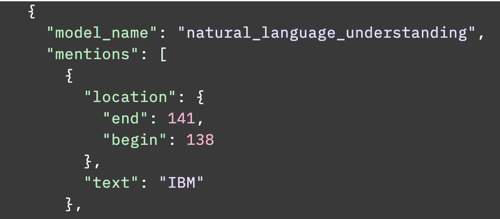
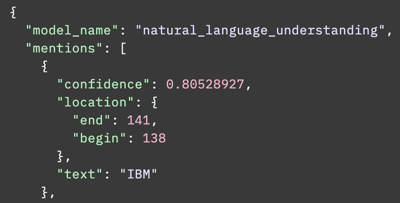
adding rel note

diff --git a/nlu.md b/nlu.md
@@ -2,7 +2,7 @@
 
 copyright:
   years: 2019, 2021
-lastupdated: "2021-09-08"
+lastupdated: "2021-09-27"
 
 subcollection: discovery-data
 
@@ -103,9 +103,9 @@ If you want to use the Entities v1 legacy enrichment instead of Entities v2, you
 In the JSON output:
 
 - `text` = string. The entity text
-- `type` = string. The entity type, including but not limited to `Organization`, `Company`, `EmailAddress`, `JobTitle`, `Location`, `Person`, `Quantity`.
+- `type` = string. The entity type, such as `Organization`, `Location`, `Person`, `Number`.
 - `mentions` = array. The entity mentions and locations
-- `model_name` = string. For custom models, this field contains the user-provided model name. Otherwise, this field contains the default name of the model: `watson_knowledge_studio`, `dictionary`, `character_pattern`, or `natural_language_understanding`
+- `model_name` = string. For custom models, this field contains the user-provided model name. Otherwise, this field contains the default name of the model, such as `watson_knowledge_studio`, `dictionary`, `character_pattern`, or `natural_language_understanding`
 
 ```json
 {
@@ -114,6 +114,7 @@ In the JSON output:
       "model_name": "natural_language_understanding",
       "mentions": [
         {
+          "confidence": 0.8317045,
           "location": {
             "end": 3,
             "begin": 0
@@ -122,12 +123,13 @@ In the JSON output:
         }
       ],
       "text": "IBM",
-      "type": "Company"
+      "type": "Organization"
     },
     {
       "model_name": "natural_language_understanding",
       "mentions": [
         {
+          "confidence": 0.6114863,
           "location": {
             "end": 75,
             "begin": 69
@@ -179,7 +181,8 @@ In the JSON output:
           "text": "Watson Discovery"
         }
       ],
-      "text": "Watson Discovery"
+      "text": "Watson Discovery",
+      "relevance": 0.503613
     },
     {
       "mentions": [
@@ -191,7 +194,8 @@ In the JSON output:
           "text": "award-winning"
         }
       ],
-      "text": "award-winning"
+      "text": "award-winning",
+      "relevance": 0.728722
     },
     {
       "mentions": [
@@ -203,7 +207,8 @@ In the JSON output:
           "text": "search technology"
         }
       ],
-      "text": "search technology"
+      "text": "search technology",
+      "relevance": 0.779356
     }
   ]
 }

diff --git a/chat-choose-project.md b/chat-choose-project.md
@@ -35,7 +35,9 @@ subcollection: discovery-data
 For a straightforward solution to deliver answers from a virtual assistant that is built with {{site.data.keyword.conversationshort}}, choose the *Conversational Search* project type. For more complex use cases, consider using the *Document Retrieval* project type.
 {: shortdesc}
 
-When you create a project to support a chatbot, you must choose the type of project to store your data collections. To help you make the decision, review the differences in the {{site.data.keyword.discoveryshort}} project types that are described in the following table.
+When you create a project to support a chatbot, you must choose the type of project to store your data collections. Most often, the *Conversational Search* project type is the right choice. You get great results from the start, and when you enable extra features like *FAQ extraction* and *Emphasize the answer*, the answers are clear and concise. For advanced use cases, where you have complex data or need to return long answers, you can evaluate whether using a *Document Retrieval* project type is a better fit.
+
+To help you choose the right {{site.data.keyword.discoveryshort}} project type, review the project type differences that are described in the following table.
 
 | Function | Conversational Search | Document Retrieval |
 |----------|-----------------------|--------------------|

diff --git a/test.md b/test.md
@@ -2,7 +2,7 @@
 
 copyright:
   years: 2019, 2021
-lastupdated: "2021-08-13"
+lastupdated: "2021-09-27"
 
 keywords: JSON, JSON representation, result JSON
 
@@ -114,13 +114,16 @@ The NLU enrichments are displayed in a JSON object named `enriched_{field_name}`
             "model_name": "natural_language_understanding",
             "mentions": [
               {
+                "confidence": 0.8317045,
                 "location": {
                   "end": 183,
                   "begin": 180
                 },
                 "text": "IBM"
               }
-            ]
+            ],
+            "text": "IBM",
+						"type": "Organization"
           }
         ]
       }
@@ -152,8 +155,10 @@ The NLU enrichments are displayed in a JSON object named `enriched_{field_name}`
                  },
                 "text": "brands"
               }
-            ]
-          }
+            ],
+						"text": "brands",
+						"relevance": 0.728722
+					}
         ]
       }
     ]

diff --git a/release-notes.md b/release-notes.md
@@ -78,6 +78,14 @@ The following new features and changes are available for managed deployments.
 
 For more information about software releases for installed deployments, see [{{site.data.keyword.discovery-data_short}} releases](#rn-cpd).
 
+### ![IBM Cloud only](images/ibm-cloud.png) 24 September 2021
+{: #24september2021}
+<!--4.0.3-1.2-->
+
+- **Confidence scores are returned for enrichments**: Relevance and confidence scores are displayed for NLU enrichments that are returned by search. 
+
+  For example, when you open the JSON view of the document preview from a query result, you can see confidence scores for Entities mentions and relevance scores for Keyword mentions.
+
 ### ![IBM Cloud only](images/ibm-cloud.png) 9 September 2021
 {: #9september2021}
 
